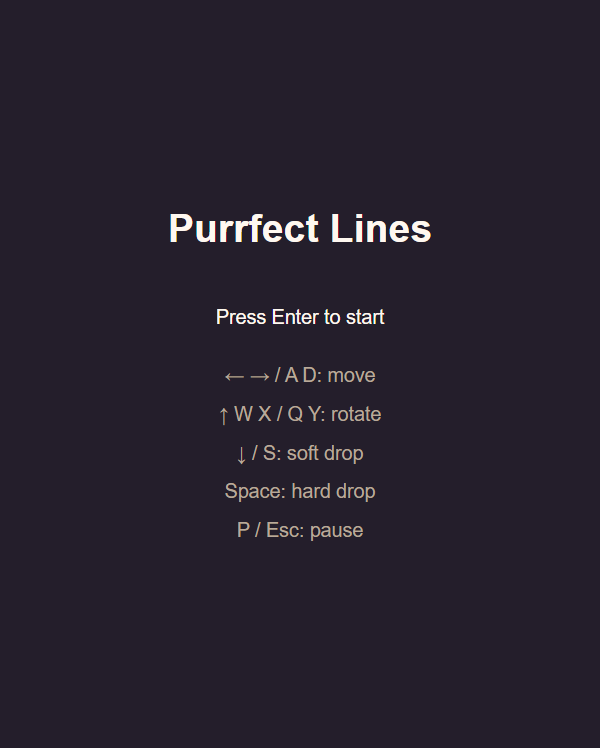
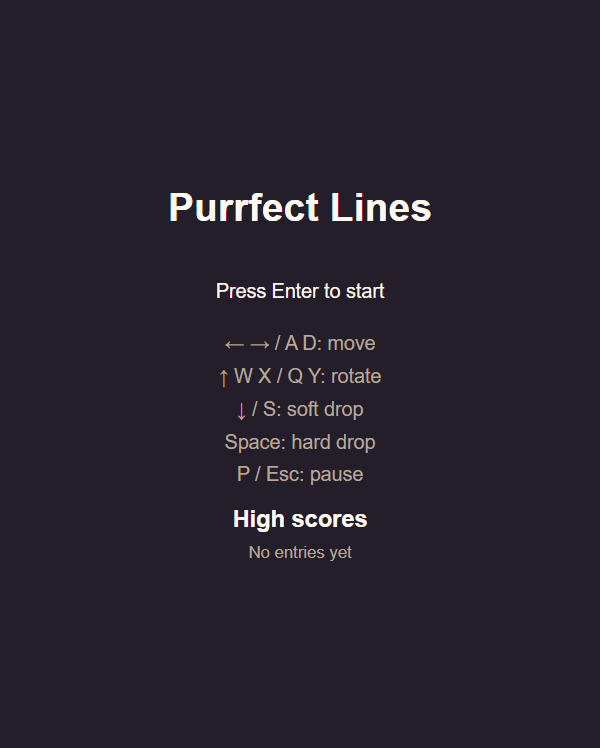
Document the high score list and saved data (M5)
README explains name entry, the list and saving; DEVELOPMENT.md lists the new screens, storage keys and folders. Screenshots re-rendered.

Changed region(s): [[0.36, 0.369, 0.66, 0.7687], [0.27, 0.246, 0.72, 0.3382]]

diff --git a/docs/DEVELOPMENT.md b/docs/DEVELOPMENT.md
@@ -68,7 +68,24 @@ e.g. http://localhost:5173/?seed=1&level=10&debug.
 | `?level=<1–99>`, e.g. http://localhost:5173/?level=15 | Every game starts on this level; the level still rises every 10 rows from there. Only whole numbers from 1 to 99; anything else is ignored and reported in the console. |
 | `?slow=<1–10>`, e.g. http://localhost:5173/?slow=4 | The whole game runs this many times slower: falling, lock delay, key repeat and the line clear animation. Only whole numbers from 1 to 10; anything else is ignored and reported in the console. |
 | `?debug` | Shows internal values as text at the top left: level, fall interval, time left until the resting piece locks and restarts used, the pieces left in the current bag, the seed, the slow motion factor and frames per second. Times are game time, so with `?slow` they stay the same while the game runs slower. |
-| `window.__purrfectLines` | Read-only game state for browser tests, a fresh copy on every read. Fields: `screen` (`"start"`, `"playing"`, `"paused"` or `"gameOver"`), `board` (20 rows × 10 cells, piece letter or `null`), `active` (`{ type, cells }` with 0-based `x`/`y`, or `null`), `next` (piece letter), `score`, `lines`, `level`. While full rows light up (300 ms), they are still in `board`, `active` is `null`, and `score` and `lines` already count them. On the start screen, `board` and `active` belong to a throwaway game that Enter replaces. Try `window.__purrfectLines.screen` in the browser console. |
+| `window.__purrfectLines` | Read-only game state for browser tests, a fresh copy on every read. Fields: `screen` (`"start"`, `"playing"`, `"paused"`, `"gameOver"`, `"nameEntry"` or `"highscores"`), `board` (20 rows × 10 cells, piece letter or `null`), `active` (`{ type, cells }` with 0-based `x`/`y`, or `null`), `next` (piece letter), `score`, `lines`, `level`. While full rows light up (300 ms), they are still in `board`, `active` is `null`, and `score` and `lines` already count them. On the start screen, `board` and `active` belong to a throwaway game that Enter replaces. Try `window.__purrfectLines.screen` in the browser console. |
+
+## Saved data
+
+The high score list and the settings (so far only the last entered name) are
+in the browser's localStorage under `purrfect-lines.highscores` and
+`purrfect-lines.settings`, as JSON. Every origin has its own storage, so the
+development server (port 5173) and `npm run preview` (port 4173) keep separate
+lists. To start over, delete both keys in the browser's developer tools
+(Application → Local storage) or run `localStorage.clear()` in the console of
+the game's tab, which empties the storage of that origin.
+Browser tests start with an empty storage in every test.
+
+All storage access goes through `src/storage/persistence.ts`, which never
+throws: unreadable data is replaced by an empty list or the default settings,
+and if the storage is blocked or full the game keeps the list in memory and
+the start screen shows a hint. To see that hint, block site data for
+localhost in the browser settings.
 
 ## Screenshots
 
@@ -92,7 +109,8 @@ game changes.
 ## Tuning
 
 The timings (fall intervals per level, repeat delay and interval, lock delay
-and its restarts, line clear animation) and the points are in
+and its restarts, line clear animation), the points, the maximum name length
+and the size of the high score list are in
 [src/game/constants.ts](../src/game/constants.ts). Tests refer to these
 names, never to the numbers. All colors are in
 [src/render/palette.ts](../src/render/palette.ts), all visible texts in
@@ -106,8 +124,10 @@ names, never to the numbers. All colors are in
 | `src/input/` | Key → action mapping, held keys |
 | `src/i18n/` | All in-game texts |
 | `src/render/` | Drawing on the canvas, scaling to the window, color palette |
-| `src/screens/` | Start, pause and game over screens (HTML over the canvas) and the pause menu |
-| `src/main.ts` | Entry point: keyboard, screens, game loop and drawing; loads `src/debug/` only on the development server |
+| `src/highscores/` | High score list rules (who enters, order, names), unit-tested |
+| `src/storage/` | Saving the list and the settings in localStorage, unit-tested with a fake storage |
+| `src/screens/` | Start, pause, game over, name entry and high score screens (HTML over the canvas), the high score table and the pause menu |
+| `src/main.ts` | Entry point: keyboard, screens, storage, game loop and drawing; loads `src/debug/` only on the development server |
 | `src/debug/` | Test helpers, development server only |
 | `e2e/` | Browser tests; `e2e/support/` reads the test interface |
 | `scripts/` | Release check and screenshots |

diff --git a/README.md b/README.md
@@ -4,7 +4,7 @@ A cosy falling-block puzzle for the browser, with a cat's touch.
 
 ![Pieces fall, slide into place and complete the bottom row, which lights up and disappears](docs/images/gameplay.apng.png)
 
-[Play](#play) · [Controls](#controls) · [Scoring and levels](#scoring-and-levels) · [Development](docs/DEVELOPMENT.md)
+[Play](#play) · [High scores](#high-scores) · [Controls](#controls) · [Scoring and levels](#scoring-and-levels) · [Development](docs/DEVELOPMENT.md)
 
 ## What it is
 
@@ -12,12 +12,12 @@ Pieces made of four blocks fall into a field of 10 × 20 cells. Move and rotate
 them so they complete rows: full rows light up and disappear. The game gets
 faster as you clear rows, and it ends when the stack reaches the top.
 
-This is an early version (milestone 4 of 8). It has start, pause and game over
-screens, but no high scores, sound or German texts yet.
+This is an early version (milestone 5 of 8). It has start, pause and game over
+screens and a high score list, but no sound or German texts yet.
 
 | Start | Pause | Game over |
 |---|---|---|
-| ![Start screen with title and keys](docs/images/start-screen.png) | ![Pause menu with Resume and Give up](docs/images/pause.png) | ![Game over screen with score, lines and level](docs/images/game-over.png) |
+| ![Start screen with title, keys and the empty high score list](docs/images/start-screen.png) | ![Pause menu with Resume and Give up](docs/images/pause.png) | ![Game over screen with score, lines and level](docs/images/game-over.png) |
 
 ## Play
 
@@ -39,12 +39,33 @@ npm run serve
 The server keeps running in the terminal until you stop it with Ctrl+C. If
 port 5173 is already taken, it stops with an error; free the port first.
 
-Open http://localhost:5173. The start screen shows the title and the keys;
-press Enter to start. A piece falls from the top centre by about one row per
-second, and a pale outline (the ghost piece) shows where it will land. The
-sidebar shows the next piece, the score, the cleared rows (lines) and the
-level. When the stack reaches the top, the game over screen shows your score,
-lines and level; Enter leads back to the start screen.
+Open http://localhost:5173. The start screen shows the title, the keys and the
+high score list; press Enter to start. A piece falls from the top centre by
+about one row per second, and a pale outline (the ghost piece) shows where it
+will land. The sidebar shows the next piece, the score, the cleared rows
+(lines) and the level. When the stack reaches the top, the game over screen
+shows your score, lines and level. Press Enter: if the score makes it into the
+high score list, you enter your name next, otherwise you are back on the start
+screen.
+
+## High scores
+
+The list keeps the 10 best games with name, score, lines, level and date. A
+game enters it if it scored more than 0 points and the list has fewer than 10
+entries or the score beats the last one; on equal scores the older entry stays
+ahead.
+
+- **Name entry:** type up to 12 characters; all keys, including Space and the
+  game keys, are just text here. Enter saves and shows the list with your new
+  entry highlighted, and Enter again leads to the start screen. Esc skips the
+  entry and saves nothing. An empty name is saved as "Kitty". Next time the
+  field already holds the name you typed last.
+- **Saving:** the list and your last name are stored in the browser
+  (localStorage) for http://localhost:5173 and survive a reload. The release
+  version on port 4173 keeps its own list. If the browser does not allow
+  saving (for example when site data is blocked), the game still runs, the
+  list lasts only until the page is reloaded, and the start screen says so.
+  Stored data that cannot be read is dropped and replaced by an empty list.
 
 The game area fills the browser window as far as its fixed shape allows. It
 adapts at once when you resize the window and stays sharp on scaled displays
@@ -72,7 +93,8 @@ npm run preview
 | Space | Hard drop: fall to the bottom and lock at once |
 | P or Esc | Pause / continue |
 | ↑ / ↓ or W / S | Choose in the pause menu |
-| Enter | Start screen: start a game. Pause menu: confirm. Game over: back to the start screen |
+| Enter | Start screen: start a game. Pause menu: confirm. Game over: on to the name entry or the start screen. Name entry: save. High score list: back to the start screen |
+| Esc | Name entry: skip without saving |
 
 Letters work in upper and lower case and are recognised by the character they
 type, so Y is the key labelled Y on any Latin keyboard layout (on a German
